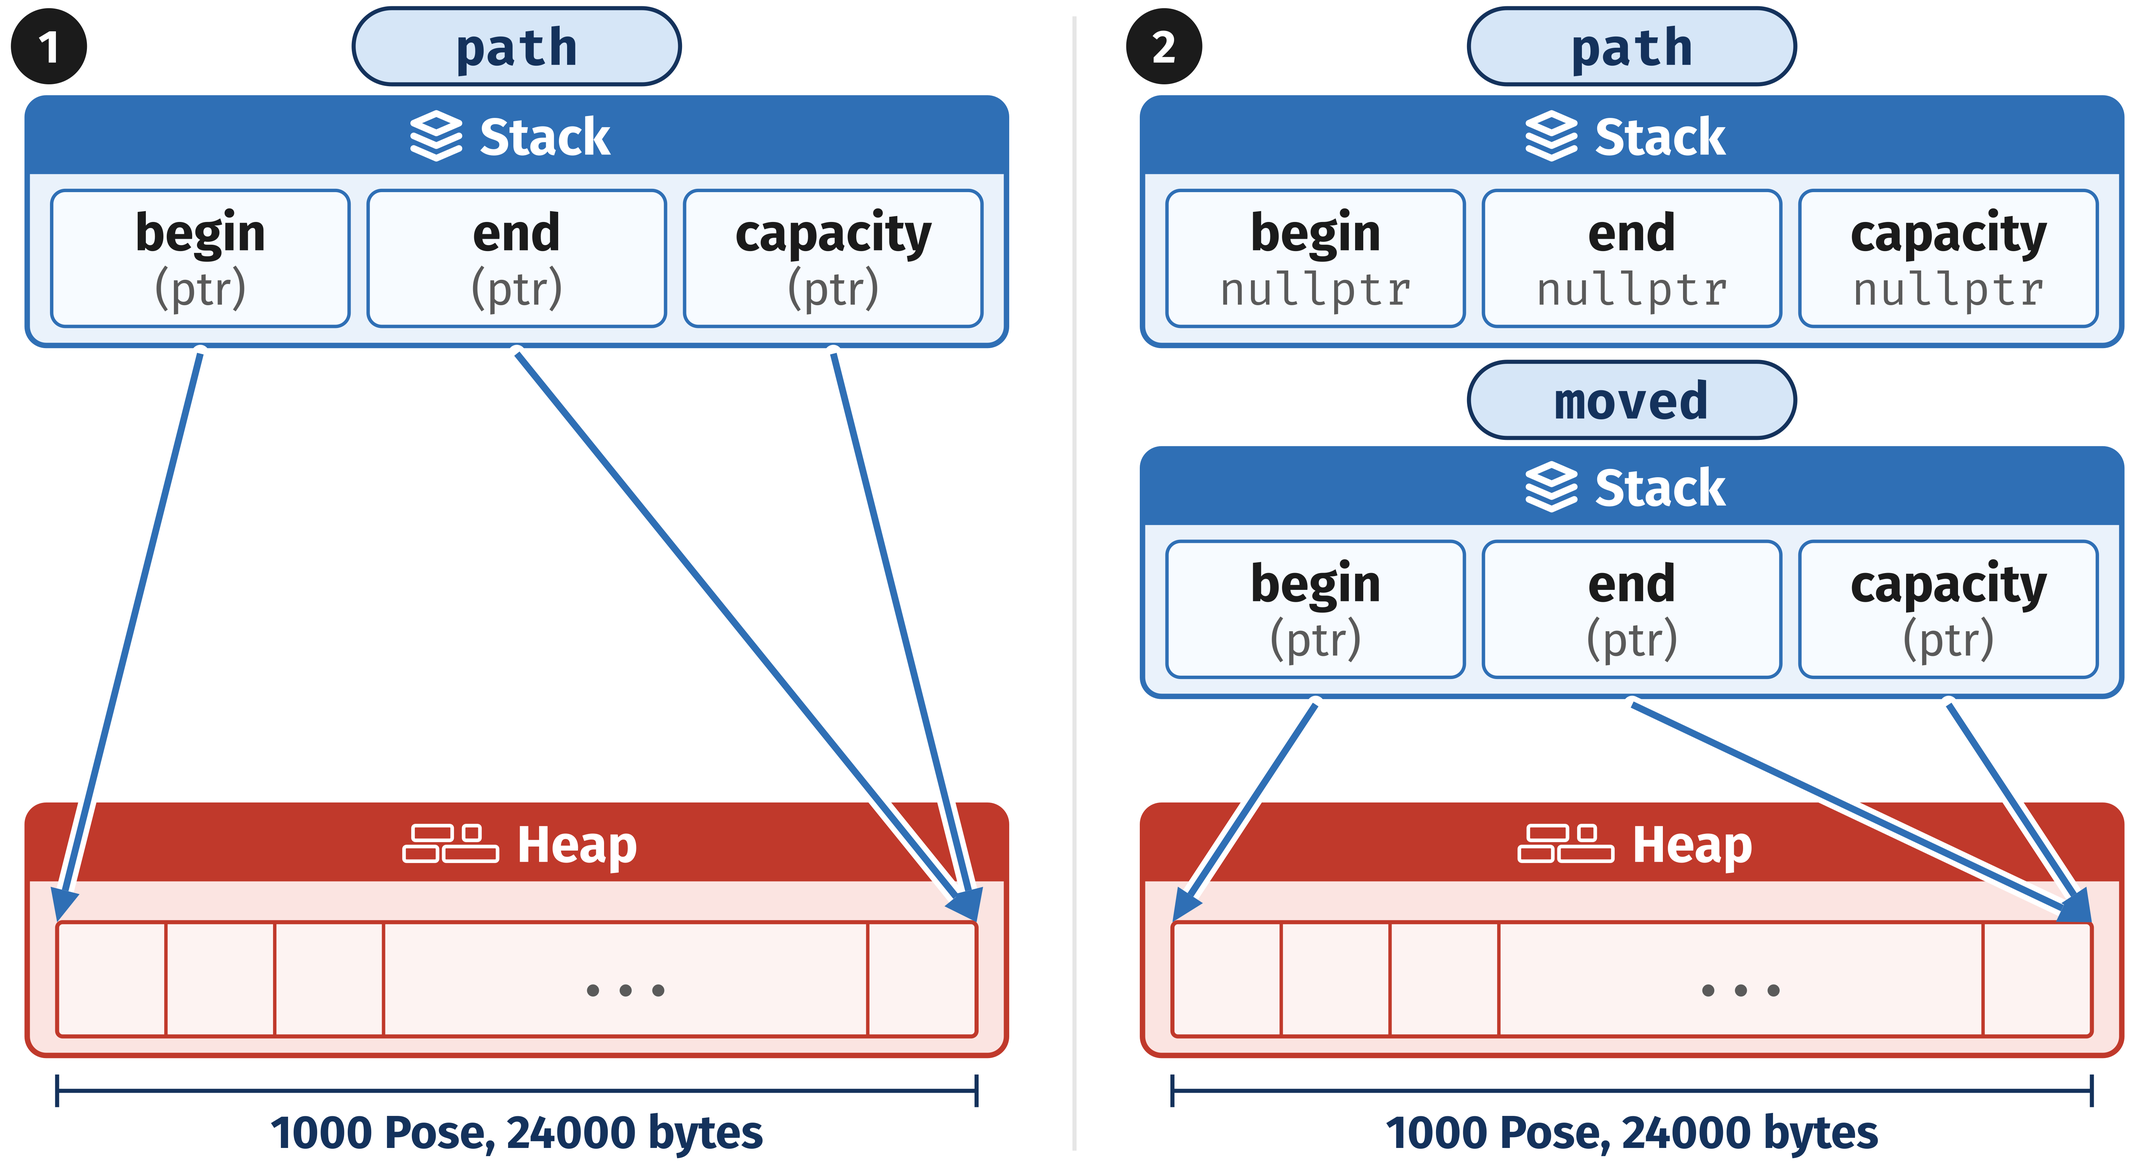
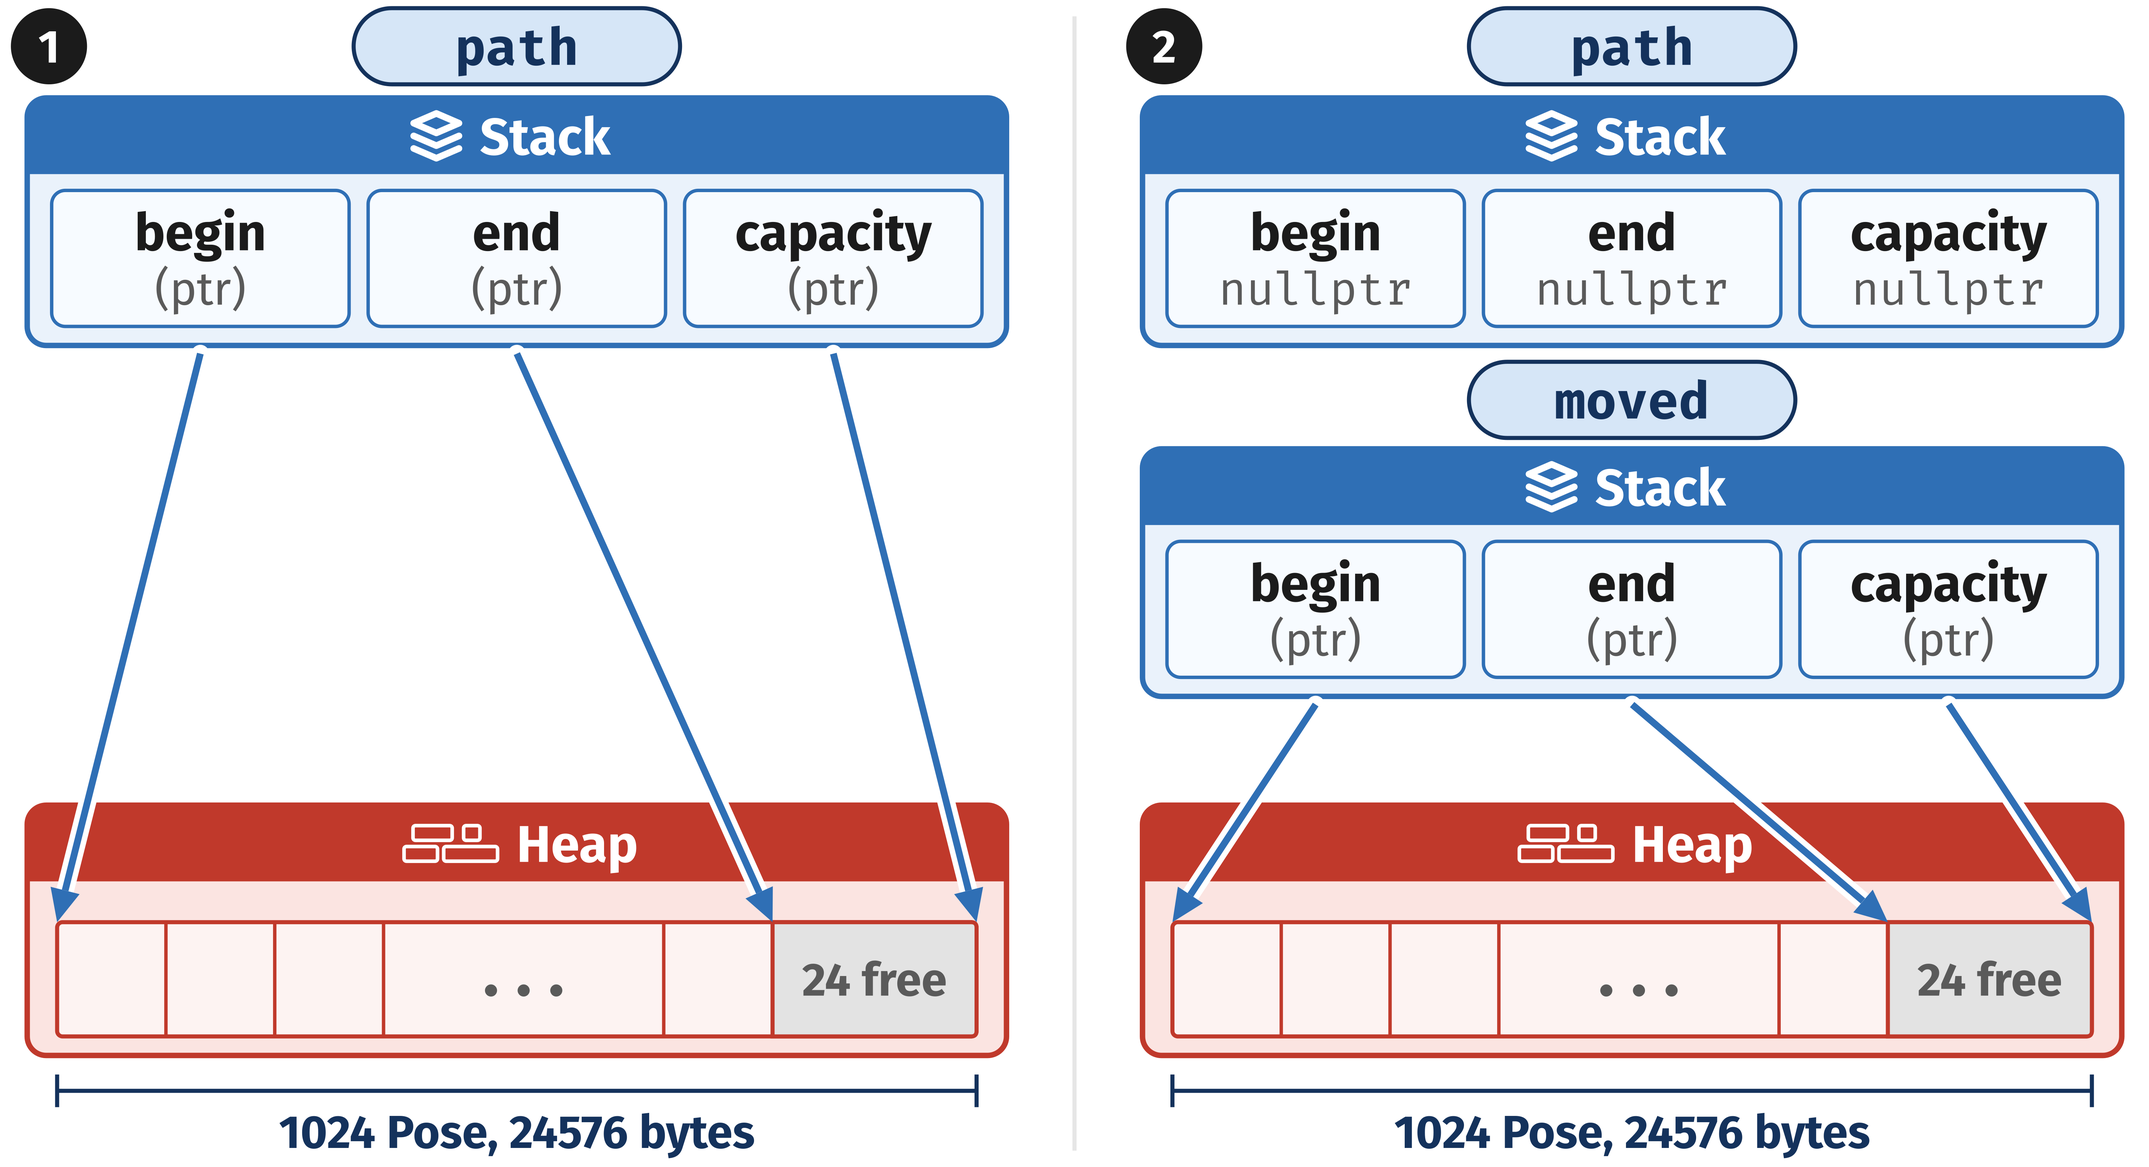
L7: Exercise 2 answers, reserved capacity in a move, heap in the binding figure
Follows the deck: Inside a Move with reserve(1024), an answers dropdown
for Exercise 2, both figures redrawn, One Pair or Two Parentheses under
Further Reading, and the 702run and slide numbers.

diff --git a/docs/source/lectures/lecture7/l7_lecture.rst b/docs/source/lectures/lecture7/l7_lecture.rst
@@ -94,7 +94,7 @@ Code for This Lecture
 
    Code that does not compile is in the programs, commented out: uncomment it to get the slide's error.
 
-   A slide whose code leaks or has undefined behavior, such as slide 78, runs only when you ask for it by number: ``702run week7_playground 78``. A full run skips it.
+   A slide whose code leaks or has undefined behavior, such as slide 79, runs only when you ask for it by number: ``702run week7_playground 79``. A full run skips it.
 
 .. note::
 
@@ -322,19 +322,20 @@ Inside a Move
 .. code-block:: cpp
 
    std::vector<Pose> path{make_path(1000)};
+   path.reserve(1024);                        // room for 24 more
    const Pose* where{path.data()};            // where path's block is
    std::vector<Pose> moved{std::move(path)};  // std::move marks path
 
 .. figure:: /_static/images/l7/av_vector_move.png
-   :alt: Two panels separated by a thin line, tagged 1 and 2. Panel 1: a name tag reading path over a blue box with a stack icon and the word Stack, holding three fields, begin, end and capacity, each marked ptr. Below, a red box with a heap icon and the word Heap holds a strip of cells, and three blue arrows run from the fields down to the top edge of the strip: begin ends at the left end of the first cell, and end and capacity both at the right end of the last cell. A measuring line under it reads 1000 Pose, 24000 bytes. Panel 2: a name tag reading path over the same Stack box, its three fields now reading nullptr, with no arrows. Below it a name tag reading moved over a second Stack box with the same three fields, each marked ptr, and three blue arrows from them to the strip of cells in a Heap box like the one in panel 1, ending at the same places, with the same measuring line, 1000 Pose, 24000 bytes.
+   :alt: Two panels separated by a thin line, tagged 1 and 2. Panel 1: a name tag reading path over a blue box with a stack icon and the word Stack, holding three fields, begin, end and capacity, each marked ptr. Below, a red box with a heap icon and the word Heap holds a strip of cells that ends in a gray part labeled 24 free. Three blue arrows run from the fields down to the top edge of the strip: begin ends at the left end of the first cell, end at the right end of the last cell in use, where the gray part starts, and capacity at the right end of the gray part. A measuring line under the whole strip reads 1024 Pose, 24576 bytes. Panel 2: a name tag reading path over the same Stack box, its three fields now reading nullptr, with no arrows. Below it a name tag reading moved over a second Stack box with the same three fields, each marked ptr, and three blue arrows from them to a strip of cells like the one in panel 1, with the same gray part labeled 24 free, ending at the same places, with the same measuring line, 1024 Pose, 24576 bytes.
    :align: center
    :width: 100%
 
    A ``std::vector`` before and after a move. **1**: ``path`` owns the block. **2**: after the move, ``moved`` owns the block and ``path``'s three pointers are null.
 
-- **1**: ``path`` owns the block through its three pointers (L4).
+- **1**: ``path`` owns the block through its three pointers (L4): 1024 slots, 1000 in use.
 - **2**: after the move, ``moved`` holds the same three pointers (``moved.data() == where``), and ``path``'s are null (libstdc++, measured). ``702run week7_playground 13`` prints ``moved.data() == where: true, path.size(): 0, path.data() == nullptr: true``.
-- Only 24 bytes change hands: the three 8-byte pointers, whatever the vector holds.
+- Only 24 bytes change hands, the three 8-byte pointers, so the block keeps its 24 spare slots: ``moved.capacity()`` is 1024. A copy leaves them out (`Inside a Copy`_). ``702run week7_playground 13`` also prints ``moved: size 1000, capacity 1024, 24576 bytes``.
 
 Elision or a Move
 ^^^^^^^^^^^^^^^^^
@@ -690,25 +691,9 @@ The ``decltype`` Test
 
 .. note::
 
-   ``T&&`` is an **rvalue reference**: a reference to an object whose contents may be taken (`Binding to rvalues`_). ``std::move(path)`` returns ``std::vector<Pose>&&``: it marks ``path`` and moves nothing (`xvalue: Marked by std::move`_).
+   ``T&&`` is an **rvalue reference**: a reference to an object whose contents may be taken (`Binding to rvalues`_). ``std::move(path)`` returns ``std::vector<Pose>&&``: that is its type. A call that returns an rvalue reference is an xvalue (**[basic.lval]** paragraph 4.1): that is its category. It marks ``path`` and moves nothing (`xvalue: Marked by std::move`_).
 
-One Pair or Two Parentheses
-^^^^^^^^^^^^^^^^^^^^^^^^^^^
-
-.. code-block:: cpp
-
-   std::vector<Pose> path{make_path(3)};
-   static_assert(std::is_same_v<decltype(path),
-                                std::vector<Pose>>);        // one pair
-   static_assert(std::is_same_v<decltype((path)),
-                                std::vector<Pose>&>);       // two pairs
-
-- One pair around a plain name: ``decltype`` gives the type ``path`` was declared with, ``std::vector<Pose>``. It says nothing about the category.
-- Two pairs: ``(path)`` is no longer a plain name, so ``decltype`` follows its category. ``path`` is an lvalue, so the result is ``std::vector<Pose>&``.
-
-.. note::
-
-   C++20 **[dcl.type.decltype]** (9.2.8.4) paragraph 1: "if E is an unparenthesized id-expression [...], decltype(E) is the type of the entity named by E"; "otherwise, if E is an xvalue, decltype(E) is T&&", "if E is an lvalue, decltype(E) is T&", "otherwise, decltype(E) is the type of E".
+See `One Pair or Two Parentheses`_ under Further Reading.
 
 Exercise 2: Value Categories
 ^^^^^^^^^^^^^^^^^^^^^^^^^^^^^
@@ -736,7 +721,31 @@ Exercise 2: Value Categories
    make_obstacle(n).speed    // 9
    ++n                       // 10
 
-- Write lvalue, xvalue or prvalue for each line. Then check: ``702run week7_playground 33``.
+- Write lvalue, xvalue or prvalue for each line. Then check: ``702run week7_playground 32``.
+
+.. dropdown:: Answers
+   :class-container: sd-border-success
+
+   An lvalue refers to an object that already exists, and nothing marks it (`lvalue: A Named Object`_).
+
+   1. ``seen``: **lvalue**. The name ``seen`` refers to a vector that already exists.
+   2. ``seen[1].pose``: **lvalue**. ``seen[1]`` refers to the second ``Obstacle`` object in ``seen``, and ``.pose`` to its ``pose`` member. Both already exist.
+   3. ``p->pose.x``: **lvalue**. ``p->pose`` is ``(*p).pose``. ``*p`` is the ``Obstacle`` object ``p`` points at, ``seen[0]``, so the expression refers to its ``x``.
+   4. ``n * 2``: **prvalue**. It computes 8 from the value of ``n``. No object held that 8 before (`prvalue: A Computed Value`_).
+   5. ``lookup(seen, 1)``: **lvalue**, because of its return type, ``Obstacle&``: the call refers to an ``Obstacle`` object that is already in ``seen``. The ``&`` on the parameter plays no part.
+   6. ``make_path(n)``: **prvalue**. ``make_path`` returns a ``std::vector<Pose>`` by value. A call that returns by value computes a value: no object exists yet (`prvalue: A Computed Value`_).
+   7. ``std::move(seen[0])``: **xvalue**. It refers to ``seen[0]``, which already exists, and marks it: its return type is ``Obstacle&&`` (`xvalue: Marked by std::move`_).
+   8. ``std::move(seen[0]).pose``: **xvalue**. A member of an xvalue is an xvalue: when the whole ``Obstacle`` object is marked, its ``pose`` is marked too.
+   9. ``make_obstacle(n).speed``: **xvalue**. ``make_obstacle(n)`` is a prvalue. ``.speed`` needs an object, so a temporary is made, and its member is an xvalue (`Temporary Materialization`_).
+   10. ``++n``: **lvalue**. Prefix ``++`` adds 1 to ``n``, and the result is ``n`` itself, now 5.
+
+   .. note::
+
+      C++20 **[expr.call]** (7.6.1.2) paragraph 14: "A function call is an lvalue if the result type is an lvalue reference type [...], an xvalue if the result type is an rvalue reference to object type, and a prvalue otherwise."
+
+   .. note::
+
+      C++20 **[basic.lval]** paragraph 4.4: an xvalue is "a class member access expression [...] in which the object expression is an xvalue". **[expr.pre.incr]** (7.6.2.2): "The result is the updated operand; it is an lvalue".
 
 Binding to rvalues
 ^^^^^^^^^^^^^^^^^^
@@ -745,7 +754,7 @@ Binding to rvalues
 
    std::vector<Pose> path{make_path(1000)};
    std::vector<Pose>&& temp_ref{make_path(10)};       // OK: an rvalue
-   const std::vector<Pose>& any_ref{path};            // binds to both
+   const std::vector<Pose>& any_ref{path};            // lvalue or rvalue
    std::vector<Pose>&& lvalue_ref{path};              // does not compile
 
 .. code-block:: text
@@ -755,7 +764,7 @@ Binding to rvalues
 
 - ``T&&`` is an **rvalue reference**. It binds only to rvalues: prvalues and xvalues.
 - Bound to the prvalue ``make_path(10)``, ``temp_ref`` gets a temporary that lives as long as ``temp_ref``.
-- ``const T&`` binds to both (L5), but through it you cannot change the object, so you cannot take from it.
+- ``const T&`` binds to lvalues and rvalues alike, but through it you cannot change the object, so you cannot take from it.
 
 See `Category, Type and Lifetime`_ and `Giving It a Name`_ under Further Reading.
 
@@ -763,16 +772,16 @@ What Each Reference Refers To
 ^^^^^^^^^^^^^^^^^^^^^^^^^^^^^
 
 .. figure:: /_static/images/l7/av_binding.png
-   :alt: On the right, two name tags, each over a blue box with a stack icon and the word Stack holding three fields, begin, end and capacity, each marked ptr: the upper one reads path, the lower one reads (temporary). On the left, three references, each a name tag with its type under it and a numbered tag beside it. Tag 2, any_ref, type const std::vector<Pose>&: a solid dark blue arrow runs from it to the path box. Tag 3, lvalue_ref, type std::vector<Pose>&&: a gray dashed arrow runs from it to the path box, crossed out by a circled X halfway along. Tag 1, temp_ref, type std::vector<Pose>&&: a solid dark blue arrow runs from it to the temporary's box.
+   :alt: In the middle, two name tags, each over a blue box with a stack icon and the word Stack holding three fields in rows, begin, end and capacity, each marked ptr: the upper one reads path, the lower one reads (temporary). On the right, one red box with a heap icon and the word Heap holds two blocks, each a column of cells with dots in it and a dashed empty slot under its last cell. The upper block, level with path, is measured as 1000 Pose, 24000 bytes; the lower one, level with the temporary, as 10 Pose, 240 bytes. From each Stack box, a blue arrow runs from begin to the block's first cell, and two blue arrows run from end and capacity to the dashed slot. On the left, three references, each a name tag with its type under it and a numbered tag beside it. Tag 2, any_ref, type const std::vector<Pose>&: a solid dark blue arrow runs from it to path's Stack box. Tag 3, lvalue_ref, type std::vector<Pose>&&: a gray dashed arrow runs from it to path's Stack box, crossed out by a circled X halfway along. Tag 1, temp_ref, type std::vector<Pose>&&: a solid dark blue arrow runs from it to the temporary's Stack box.
    :align: center
    :width: 100%
 
-   The code of `Binding to rvalues`_, in memory: each reference and the object it refers to.
+   The code of `Binding to rvalues`_, in memory: each reference, the object it refers to, and the block each vector owns on the heap.
 
-- **1**, line 2: ``temp_ref`` binds the temporary from ``make_path(10)`` and keeps it alive (C++20 **[class.temporary]** paragraph 6: the temporary "persists for the lifetime of the reference").
+- **1**, line 2: ``temp_ref`` binds the temporary from ``make_path(10)`` and keeps it alive, with its 10 poses (240 bytes) on the heap (C++20 **[class.temporary]** paragraph 6: the temporary "persists for the lifetime of the reference").
 - **2**, line 3: ``any_ref``, a ``const&``, binds ``path``, an lvalue.
 - **3**, line 4: a ``T&&`` cannot bind ``path``, an lvalue, so it does not compile. The figure draws it dashed and crossed out.
-- A reference has no box. C++20 **[dcl.ref]** paragraph 4: "It is unspecified whether or not a reference requires storage."
+- A reference has no box and owns no block: each block on the heap belongs to a vector, 1000 poses (24000 bytes) for ``path``. C++20 **[dcl.ref]** paragraph 4: "It is unspecified whether or not a reference requires storage."
 
 Overloads for Copy and Move
 ^^^^^^^^^^^^^^^^^^^^^^^^^^^
@@ -1005,7 +1014,7 @@ The Leak, Fixed
    }
 
 - The first one leaks 48 bytes: the cyclist is 12 m ahead, past the 10 m chosen for this example, so the early return skips the ``delete``.
-- ``702run week7_playground 46`` runs the second one: ``needs_braking(2): false``, and no LeakSanitizer report.
+- ``702run week7_playground 47`` runs the second one: ``needs_braking(2): false``, and no LeakSanitizer report.
 - Every path out of the function destroys ``track``, and its destructor deletes the ``Obstacle`` object.
 
 One Owner Only
@@ -1119,7 +1128,7 @@ Exercise 3: Handing Over a Track
 
 - At the board, after each line: draw ``p`` and ``q`` on the stack, every ``Obstacle`` object on the heap, and an arrow from each pointer to the object it owns.
 - On which line is the ``Obstacle`` object with id 1 deleted, and what deletes it? Nothing in the code says ``delete``.
-- Check: ``702run week7_playground 52``.
+- Check: ``702run week7_playground 53``.
 
 The Tracker's List
 """"""""""""""""""
@@ -1236,7 +1245,7 @@ Exercise 4: Lines That Compile
    Obstacle* f{d.get()};                         // 7
    std::unique_ptr<Obstacle> g{f};               // 8
 
-- For each line: does it compile? If it compiles, is it correct? Then check in ``702run week7_playground 57`` and its comments.
+- For each line: does it compile? If it compiles, is it correct? Then check in ``702run week7_playground 58`` and its comments.
 
 ``std::shared_ptr``
 ^^^^^^^^^^^^^^^^^^^
@@ -1263,7 +1272,7 @@ The planner puts the cyclist, id 2, in its hazard list; the tracker keeps it too
 
 .. code-block:: cpp
 
-   std::vector<std::unique_ptr<Obstacle>> tracker;  // as on slide 53
+   std::vector<std::unique_ptr<Obstacle>> tracker;  // as on slide 54
    std::vector<Obstacle*> hazards;
    hazards.push_back(tracker[0].get());  // id 2: looks, does not own
    tracker.erase(tracker.begin());       // the track is lost: it dangles
@@ -1340,7 +1349,7 @@ Three Ways to Let Go
 
 - An owner lets go when its scope ends (2, 3c), when it is assigned another pointer (3a), or when it calls ``reset()`` (3b). Each one subtracts 1 from the count.
 - In all three, ``track`` is the last owner, so its ``Obstacle`` object is deleted: ``=`` and ``reset()`` swap it into a temporary that is destroyed (C++20 20.11.3.2 to 20.11.3.4).
-- In 3a, id 4 is chosen; the rest take defaults. Run it: ``702run week7_playground 63``.
+- In 3a, id 4 is chosen; the rest take defaults. Run it: ``702run week7_playground 64``.
 
 Step 1: Two Owners
 """"""""""""""""""
@@ -1408,7 +1417,7 @@ Deletion by the Last Owner
    hazards.clear();  // the last owner deletes the Obstacle
 
 - The hazard list keeps the ``Obstacle`` object alive after the tracker lets go. That is what the raw pointer of `A Hazard in Two Lists`_ could not do.
-- Whichever list lets go last deletes the ``Obstacle`` object, and nothing leaks: ``702run week7_playground 69`` ends with no LeakSanitizer report.
+- Whichever list lets go last deletes the ``Obstacle`` object, and nothing leaks: ``702run week7_playground 70`` ends with no LeakSanitizer report.
 
 .. _l7-shared-borrow:
 
@@ -1492,7 +1501,7 @@ Returning
 
 .. code-block:: cpp
 
-   std::unique_ptr<Obstacle> make_track(int id);  // slide 56
+   std::unique_ptr<Obstacle> make_track(int id);  // slide 57
    std::shared_ptr<Obstacle> hazard{make_track(5)};  // compiles
    std::unique_ptr<Obstacle> back{hazard};           // does not compile
 
@@ -1578,7 +1587,7 @@ The Cycle, Measured
    SUMMARY: AddressSanitizer: 160 byte(s) leaked in 2 allocation(s).
 
 - An **indirect leak** is LeakSanitizer's name for leaked memory reachable only from other leaked memory.
-- ``702run week7_playground 78``: lines 37 and 38 are the two ``std::make_shared`` calls.
+- ``702run week7_playground 79``: lines 37 and 38 are the two ``std::make_shared`` calls.
 - 80 bytes each, one allocation: a ``Towing`` (48 + 16) and its 16-byte control block.
 
 Breaking It
@@ -1594,7 +1603,7 @@ Breaking It
    b->other = a;  // a's count stays 1
 
 - A ``std::weak_ptr`` made from a ``std::shared_ptr`` does not add to the count.
-- When ``a`` and ``b`` go out of scope, both counts reach 0 and both ``Towing`` objects are deleted. ``702run week7_playground 79``: no LeakSanitizer report.
+- When ``a`` and ``b`` go out of scope, both counts reach 0 and both ``Towing`` objects are deleted. ``702run week7_playground 80``: no LeakSanitizer report.
 
 .. note::
 
@@ -1619,7 +1628,7 @@ Breaking It
 
 - A ``std::weak_ptr`` has no ``->`` and no ``*``. ``lock()`` returns an owning ``std::shared_ptr``, or an empty one if the object is gone.
 - While ``target`` exists, it is one more owner, so the ``Obstacle`` object cannot be deleted in the middle of ``show``.
-- ``702run week7_playground 80``: ``obstacle 2: 4 m/s``, then, after the tracker and the planner let go, ``the obstacle is gone``.
+- ``702run week7_playground 81``: ``obstacle 2: 4 m/s``, then, after the tracker and the planner let go, ``the obstacle is gone``.
 
 See `A Dashboard of weak_ptr`_ under Further Reading.
 
@@ -1653,7 +1662,7 @@ Exercise 5: Use Counts
    b.reset();                             // 6
 
 - After each numbered line: how many ``std::shared_ptr``\ s own the ``Obstacle`` object, and is ``shown`` expired?
-- Check: ``702run week7_playground 82``.
+- Check: ``702run week7_playground 83``.
 
 Choosing a Pointer
 ------------------
@@ -2237,3 +2246,21 @@ Passing: Reseat
 .. note::
 
    "Take a ``unique_ptr<widget>&`` parameter to express that a function reseats the ``widget``". Rule: `Core Guidelines R.33 <https://isocpp.github.io/CppCoreGuidelines/CppCoreGuidelines#rr-reseat>`__.
+
+One Pair or Two Parentheses
+^^^^^^^^^^^^^^^^^^^^^^^^^^^
+
+.. code-block:: cpp
+
+   std::vector<Pose> path{make_path(3)};
+   static_assert(std::is_same_v<decltype(path),
+                                std::vector<Pose>>);        // one pair
+   static_assert(std::is_same_v<decltype((path)),
+                                std::vector<Pose>&>);       // two pairs
+
+- One pair around a plain name: ``decltype`` gives the type ``path`` was declared with, ``std::vector<Pose>``. It says nothing about the category.
+- Two pairs: ``(path)`` is no longer a plain name, so ``decltype`` follows its category. ``path`` is an lvalue, so the result is ``std::vector<Pose>&``.
+
+.. note::
+
+   C++20 **[dcl.type.decltype]** (9.2.8.4) paragraph 1: "if E is an unparenthesized id-expression [...], decltype(E) is the type of the entity named by E"; "otherwise, if E is an xvalue, decltype(E) is T&&", "if E is an lvalue, decltype(E) is T&", "otherwise, decltype(E) is the type of E".
